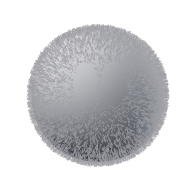
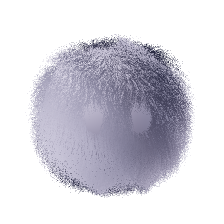
Add shaggy fur, shuffle shortcut, and Play default in v0.1.1

diff --git a/frontend/src/App.jsx b/frontend/src/App.jsx
@@ -28,7 +28,7 @@ function ValueSlider({id,label,value,min=0,max=.999,step=.001,onChange,pinned,on
 function useMobile(){const [mobile,setMobile]=useState(()=>matchMedia('(max-width: 900px)').matches);useEffect(()=>{const media=matchMedia('(max-width: 900px)'),change=()=>setMobile(media.matches);media.addEventListener('change',change);return()=>media.removeEventListener('change',change)},[]);return mobile}
 
 export default function App(){
- const [saved]=useState(loadSession),[config,setConfig]=useState(()=>saved?.config??makeDefault()),[locks,setLocks]=useState(()=>({...EMPTY_LOCKS,...saved?.locks})),[pool,setPool]=useState(()=>saved?.shapePool===true||Array.isArray(saved?.config?.options?.traits?.shape)),[theme,setTheme]=useState(()=>localStorage.getItem('squish-theme')??'dark'),[motion,setMotion]=useState(()=>saved?.motion??'hover'),[gaze,setGaze]=useState(()=>saved?.gaze??true),[mode,setMode]=useState(()=>saved?.interactionMode??'rotate'),[tab,setTab]=useState(()=>(['material','shape','expression','color'].includes(saved?.mobileTab)?saved.mobileTab:'material')),[expanded,setExpanded]=useState({}),[catalog,setCatalog]=useState(null),[status,setStatus]=useState(''),[isError,setIsError]=useState(false),[rendering,setRendering]=useState(false),[format,setFormat]=useState('png'),[result,setResult]=useState(null),[burst,setBurst]=useState(null),[previewError,setPreviewError]=useState(null),[logoReady,setLogoReady]=useState(false);
+ const [saved]=useState(loadSession),[config,setConfig]=useState(()=>saved?.config??makeDefault()),[locks,setLocks]=useState(()=>({...EMPTY_LOCKS,...saved?.locks})),[pool,setPool]=useState(()=>saved?.shapePool===true||Array.isArray(saved?.config?.options?.traits?.shape)),[theme,setTheme]=useState(()=>localStorage.getItem('squish-theme')??'dark'),[motion,setMotion]=useState(()=>saved?.motion??'hover'),[gaze,setGaze]=useState(()=>saved?.gaze??true),[mode,setMode]=useState(()=>saved?.interactionMode??'play'),[tab,setTab]=useState(()=>(['material','shape','expression','color'].includes(saved?.mobileTab)?saved.mobileTab:'material')),[expanded,setExpanded]=useState({}),[catalog,setCatalog]=useState(null),[status,setStatus]=useState(''),[isError,setIsError]=useState(false),[rendering,setRendering]=useState(false),[format,setFormat]=useState('png'),[result,setResult]=useState(null),[burst,setBurst]=useState(null),[previewError,setPreviewError]=useState(null),[logoReady,setLogoReady]=useState(false);
  const viewport=useRef(null),logoContainer=useRef(null),controller=usePreview(viewport,setPreviewError),logoController=usePreview(logoContainer),[logoScene,retryLogo]=useLogo(),mobile=useMobile(),{resolved,traitValues,error}=useResolved(config),images=useThumbnails(resolved,catalog),configRef=useRef(config),sceneRef=useRef(resolved),reaction=useRef({id:0,timer:null}),initialValidation=useRef({pending:!!saved,config});configRef.current=config;sceneRef.current=resolved;
  const defaults=catalog?.materialDefaults??MATERIAL_DEFAULTS;
  const update=useCallback(mutator=>setConfig(previous=>{const next=clone(previous);mutator(next);return next}),[]);
@@ -48,6 +48,9 @@ export default function App(){
  function setTrait(key,value){update(c=>{c.options.traits??={};if(value===undefined)delete c.options.traits[key];else c.options.traits[key]=value;if(key==='hue')delete c.options.hue;if(key==='tone')delete c.options.tone})}
  function selectShape(value){if(value===undefined)return setTrait('shape',undefined);if(!pool)return setTrait('shape',value);const old=config.options.traits?.shape,chosen=old===undefined?[]:Array.isArray(old)?old:[old],next=catalog.shapes.map(s=>s.at).filter(v=>v===value?!chosen.includes(v):chosen.includes(v));setTrait('shape',next.length===0?undefined:next.length===1?next[0]:next)}
  function lock(key,value){setLocks(old=>({...old,[key]:value}))}
+ function shuffleAll(){if(catalog)setConfig(shuffleAvatar(config,locks,catalog.expressions,defaults))}
+ const shuffleRef=useRef(shuffleAll);shuffleRef.current=shuffleAll;
+ useEffect(()=>{const onKey=e=>{if(e.key.toLowerCase()!=='r'||e.repeat||e.ctrlKey||e.metaKey||e.altKey||e.shiftKey||e.isComposing)return;const target=e.target;if(target instanceof Element&&target.closest('input,textarea,select,[contenteditable]:not([contenteditable="false"]),[role="slider"],[role="combobox"]'))return;if(document.querySelector('[role="dialog"],[role="listbox"],[role="menu"]'))return;e.preventDefault();shuffleRef.current()};window.addEventListener('keydown',onKey);return()=>window.removeEventListener('keydown',onKey)},[]);
  function resetAll(){setConfig(makeDefault());setLocks({...EMPTY_LOCKS});setPool(false);setResult(null);message('')}
  function editLogo(){if(!logoScene)return;setConfig({...clone(logoScene.config),render:clone(config.render)});setLocks({...EMPTY_LOCKS});setPool(Array.isArray(logoScene.config.options.traits?.shape));message('Editing the header SquishBot.')}
  async function react(){if(!controller||!catalog)return;clearTimeout(reaction.current.timer);const id=++reaction.current.id,current=burst??configRef.current.options.expression??'idle',choices=catalog.expressions.filter(e=>e!=='idle'&&e!==current),expression=choices[crypto.getRandomValues(new Uint32Array(1))[0]%choices.length];try{const snapshot=clone(configRef.current);snapshot.options.expression=expression;const response=await api('/api/resolve',snapshot);if(id!==reaction.current.id)return;controller.update(response.resolved??response);setBurst(expression);reaction.current.timer=setTimeout(()=>{if(id!==reaction.current.id)return;setBurst(null);if(sceneRef.current)controller.update(sceneRef.current)},1500)}catch(e){message(e.message,true)}}
@@ -66,7 +69,7 @@ export default function App(){
  return <div className="studio-shell bg-background text-foreground">
   <header className="studio-header flex min-w-0 items-center justify-between border-b px-5"><button type="button" onClick={editLogo} title="Edit this SquishBot" aria-label="Edit this SquishBot" className="flex min-w-0 items-center gap-1.5 rounded-md outline-none focus-visible:ring-2 focus-visible:ring-ring"><span className="relative block size-11 shrink-0">{!logoReady&&<AvatarFallback/>}<span ref={logoContainer} className="absolute inset-0 block size-11"/></span><span className="text-lg font-semibold tracking-tight">SquishBots</span></button><div className="header-actions"><a href="https://github.com/getkishore92/SquishBots" target="_blank" rel="noreferrer" aria-label="Star SquishBots on GitHub" className="github-star"><GithubLogoIcon size={18} weight="fill"/><span>Star</span><StarIcon size={15}/></a><IconButton label={`Switch to ${theme==='dark'?'light':'dark'} mode`} onClick={()=>setTheme(theme==='dark'?'light':'dark')}>{theme==='dark'?<SunIcon size={19}/>:<MoonIcon size={19}/>}</IconButton></div></header>
   <main className="studio-stage min-h-0 min-w-0 overflow-hidden">
-   <div className="studio-toolbar"><div className="name-controls flex min-w-0 flex-1 items-center gap-1 rounded-lg border bg-card p-1"><Input aria-label="Avatar name" value={config.seed} onChange={e=>{const value=e.target.value;update(c=>{c.seed=value})}} className="h-8 min-w-0 flex-1 border-0 bg-transparent px-2 text-sm shadow-none focus-visible:ring-0"/><Button variant="ghost" size="sm" title="Shuffle all unlocked settings" disabled={!catalog} onClick={()=>setConfig(shuffleAvatar(config,locks,catalog.expressions,defaults))} className="h-8 shrink-0 gap-1.5 px-2 text-xs"><ShuffleIcon size={16}/>Shuffle all</Button></div><div className="interaction-controls"><Tabs value={mode} onValueChange={setMode} className="mode-tabs shrink-0 gap-0"><TabsList aria-label="Drag mode" className="grid h-9 grid-cols-2"><TabsTrigger value="rotate" className="px-2 text-xs">Rotate</TabsTrigger><TabsTrigger value="play" className="px-2 text-xs">Play</TabsTrigger></TabsList><TabsContent value="rotate" className="sr-only">Drag the avatar to rotate it.</TabsContent><TabsContent value="play" className="sr-only">Drag the avatar to move and bounce.</TabsContent></Tabs><IconButton label="Reset view" onClick={()=>controller?.resetView?.()}><ArrowCounterClockwiseIcon size={17}/></IconButton><label className="follow-control flex cursor-pointer items-center gap-1.5 whitespace-nowrap text-xs"><Switch checked={gaze} onCheckedChange={setGaze} aria-label="Follow pointer"/>Follow pointer</label><Choice label="Motion" value={motion} options={[{value:'none',label:'Motion off'},{value:'hover',label:'On hover'},{value:'always',label:'Always'}]} onChange={setMotion} className="motion-select"/></div></div>
+   <div className="studio-toolbar"><div className="name-controls flex min-w-0 flex-1 items-center gap-1 rounded-lg border bg-card p-1"><Input aria-label="Avatar name" value={config.seed} onChange={e=>{const value=e.target.value;update(c=>{c.seed=value})}} className="h-8 min-w-0 flex-1 border-0 bg-transparent px-2 text-sm shadow-none focus-visible:ring-0"/><Button variant="default" size="sm" title="Shuffle all unlocked settings (R)" aria-keyshortcuts="R" disabled={!catalog} onClick={shuffleAll} className="h-8 shrink-0 gap-1.5 px-2 text-xs"><ShuffleIcon size={16}/>Shuffle all</Button></div><div className="interaction-controls"><Tabs value={mode} onValueChange={setMode} className="mode-tabs shrink-0 gap-0"><TabsList aria-label="Drag mode" className="grid h-9 grid-cols-2"><TabsTrigger value="rotate" className="px-2 text-xs">Rotate</TabsTrigger><TabsTrigger value="play" className="px-2 text-xs">Play</TabsTrigger></TabsList><TabsContent value="rotate" className="sr-only">Drag the avatar to rotate it.</TabsContent><TabsContent value="play" className="sr-only">Drag the avatar to move and bounce.</TabsContent></Tabs><IconButton label="Reset view" onClick={()=>controller?.resetView?.()}><ArrowCounterClockwiseIcon size={17}/></IconButton><label className="follow-control flex cursor-pointer items-center gap-1.5 whitespace-nowrap text-xs"><Switch checked={gaze} onCheckedChange={setGaze} aria-label="Follow pointer"/>Follow pointer</label><Choice label="Motion" value={motion} options={[{value:'none',label:'Motion off'},{value:'hover',label:'On hover'},{value:'always',label:'Always'}]} onChange={setMotion} className="motion-select"/></div></div>
    <div className="stage-visual relative min-h-0 min-w-0 flex-1"><div ref={viewport} role="button" tabIndex={0} aria-label={`${resolved?.shape??'3D'} avatar. Click to react.`} onClick={e=>{if(!e.defaultPrevented)react()}} onKeyDown={e=>{if(e.key==='Enter'||e.key===' '){e.preventDefault();react()}}} className={`absolute inset-0 cursor-grab rounded-xl outline-none active:cursor-grabbing focus-visible:ring-2 focus-visible:ring-ring ${sceneError?'opacity-20':''}`}/>{loading&&!sceneError&&<div className="pointer-events-none absolute inset-0 flex items-center justify-center gap-2 text-sm text-muted-foreground"><SpinnerGapIcon size={17} className="animate-spin"/>Preparing your avatar…</div>}{sceneError&&<div className="absolute inset-0 flex items-center justify-center p-6"><p role="alert" className="max-w-sm rounded-lg border bg-card p-4 text-center text-sm">Preview unavailable: {sceneError}</p></div>}</div>
    <div className="stage-bottom shrink-0"><div className="preview-swatches flex justify-center gap-2 pb-2" aria-label="Avatar colors">{COLORS.map(([hex,name])=><button key={hex} type="button" title={name} aria-label={`${name} avatar color`} aria-pressed={config.options.palette?.head===hex} className={`size-5 shrink-0 cursor-pointer rounded-full border border-black/15 ring-offset-background focus-visible:ring-2 focus-visible:ring-ring ${config.options.palette?.head===hex?'ring-2 ring-primary ring-offset-2':''}`} style={{backgroundColor:hex,'--swatch':hex}} onClick={()=>update(c=>{c.options.palette??={};c.options.palette.head=hex})}/>)}</div><div className="preview-caption"><p className="interaction-hint text-center text-xs text-muted-foreground">{mode==='rotate'?'Drag to rotate. Switch to Play to move and bounce.':'Move your pointer. Click to react. Drag to play.'}</p><p className="preview-label text-center text-[11px] text-muted-foreground">{burst?`Reaction · ${burst}`:`Live preview${resolved?` · ${resolved.shape} · ${config.material.preset}`:''}`}</p></div>{mobile?<Dialog.Root><Dialog.Trigger asChild><Button className="mobile-export" variant="secondary"><DownloadSimpleIcon size={18}/>Export</Button></Dialog.Trigger><Dialog.Portal><Dialog.Overlay className="export-overlay"/><Dialog.Content className="export-sheet"><div className="sheet-handle"/><div className="sheet-heading"><Dialog.Title className="text-lg font-semibold">Export avatar</Dialog.Title><Dialog.Close asChild><Button variant="ghost" aria-label="Close export">Close</Button></Dialog.Close></div><Dialog.Description className="mb-5 text-sm text-muted-foreground">Choose a format and save your SquishBot.</Dialog.Description>{exportPanel}</Dialog.Content></Dialog.Portal></Dialog.Root>:exportPanel}</div>
   </main>

diff --git a/web/preview.js b/web/preview.js
@@ -16,9 +16,22 @@ function bodyMaterial(resolved){const m=resolved.material??{},preset=m.preset??'
 function sphere(color,loc,r,options={}){const group=new THREE.Group(),obj=new THREE.Mesh(new THREE.SphereGeometry(r,40,24),bodyMaterial({marks:[{fill:color}],material:options}));group.add(obj);group.position.set(...loc);if(options.preset==='fur'){const random=seededRandom(),vertices=[],length=Math.min((options.furLength??.075)*.24,.022);for(let i=0;i<1000;i++){const y=random()*2-1,a=random()*Math.PI*2,q=Math.sqrt(1-y*y),dir=new THREE.Vector3(q*Math.cos(a),y,q*Math.sin(a));vertices.push(...dir.clone().multiplyScalar(r),...dir.clone().multiplyScalar(r+length*(.65+random()*.5)))}const geo=new THREE.BufferGeometry();geo.setAttribute('position',new THREE.Float32BufferAttribute(vertices,3));group.add(new THREE.LineSegments(geo,new THREE.LineBasicMaterial({color,transparent:true,opacity:.65})))}return group}
 
 function makeFur(geo,g,eyes,m,color){const random=seededRandom(),p=geo.attributes.position,n=geo.attributes.normal,indices=geo.index.array,triangles=[],cumulative=[];let total=0;const a=new THREE.Vector3(),b=new THREE.Vector3(),c=new THREE.Vector3();for(let i=0;i<indices.length;i+=3){a.fromBufferAttribute(p,indices[i]);b.fromBufferAttribute(p,indices[i+1]);c.fromBufferAttribute(p,indices[i+2]);const area=new THREE.Vector3().subVectors(b,a).cross(new THREE.Vector3().subVectors(c,a)).length()/2;total+=area;triangles.push([indices[i],indices[i+1],indices[i+2]]);cumulative.push(total)}
- const boxes=eyes.map(e=>{const q=pathPoints(e.d),xs=q.map(v=>(v[0]-g.cx)/32),ys=q.map(v=>(g.cy-v[1])/32);return[Math.min(...xs)-.035,Math.max(...xs)+.035,Math.min(...ys)-.035,Math.max(...ys)+.035]}),verts=[],roots=[],length=m.furLength??.075,count=Math.min(m.furDensity??12000,18000);
- for(let i=0;i<count;i++){const seek=random()*total;let lo=0,hi=cumulative.length-1;while(lo<hi){const mid=(lo+hi)>>1;if(cumulative[mid]<seek)lo=mid+1;else hi=mid}const tri=triangles[lo],u=Math.sqrt(random()),v=random(),weights=[1-u,u*(1-v),u*v],pos=new THREE.Vector3(),normal=new THREE.Vector3();for(let j=0;j<3;j++){pos.addScaledVector(new THREE.Vector3().fromBufferAttribute(p,tri[j]),weights[j]);normal.addScaledVector(new THREE.Vector3().fromBufferAttribute(n,tri[j]),weights[j])}normal.normalize();const h=length*(.65+random()*.55),tangent=new THREE.Vector3().crossVectors(normal,new THREE.Vector3(random(),random(),random())).normalize(),bend=(random()-.5)*.8*h,mid=pos.clone().addScaledVector(normal,h*.5).addScaledVector(tangent,bend*.25),end=pos.clone().addScaledVector(normal,h).addScaledVector(tangent,bend);verts.push(...pos,...mid,...mid,...end);roots.push(...pos,...pos,...pos,...pos)}
- const f=new THREE.BufferGeometry();f.setAttribute('position',new THREE.Float32BufferAttribute(verts,3));f.setAttribute('strandRoot',new THREE.Float32BufferAttribute(roots,3));const masks={eye0:{value:new THREE.Vector4(0,0,.1,.2)},eye1:{value:new THREE.Vector4(0,0,.1,.2)}},mat=new THREE.LineBasicMaterial({color,transparent:true,opacity:.7});mat.onBeforeCompile=shader=>{shader.uniforms.eye0=masks.eye0;shader.uniforms.eye1=masks.eye1;shader.vertexShader='attribute vec3 strandRoot; varying vec3 vStrandRoot;\n'+shader.vertexShader;shader.vertexShader=shader.vertexShader.replace('#include <begin_vertex>','#include <begin_vertex>\nvStrandRoot = strandRoot;');shader.fragmentShader='varying vec3 vStrandRoot; uniform vec4 eye0; uniform vec4 eye1;\n'+shader.fragmentShader;shader.fragmentShader=shader.fragmentShader.replace('#include <clipping_planes_fragment>','#include <clipping_planes_fragment>\nvec2 mask0=(vStrandRoot.xy-eye0.xy)/eye0.zw; vec2 mask1=(vStrandRoot.xy-eye1.xy)/eye1.zw; if(vStrandRoot.z > 0.0 && (dot(mask0,mask0)<1.0 || dot(mask1,mask1)<1.0)) discard;')};const fur=new THREE.LineSegments(f,mat);fur.userData.eyeMasks=masks;fur.userData.maskPad=.035+length*.65;return fur;
+ const verts=[],roots=[],colors=[],normals=[],faces=[],length=m.furLength??.22,count=Math.min(m.furDensity??28000,40000);
+ for(let i=0;i<count;i++){
+  const seek=random()*total;let lo=0,hi=cumulative.length-1;while(lo<hi){const mid=(lo+hi)>>1;if(cumulative[mid]<seek)lo=mid+1;else hi=mid}
+  const tri=triangles[lo],u=Math.sqrt(random()),v=random(),weights=[1-u,u*(1-v),u*v],pos=new THREE.Vector3(),normal=new THREE.Vector3();
+  for(let j=0;j<3;j++){pos.addScaledVector(new THREE.Vector3().fromBufferAttribute(p,tri[j]),weights[j]);normal.addScaledVector(new THREE.Vector3().fromBufferAttribute(n,tri[j]),weights[j])}normal.normalize();
+  // Nearby roots share a comb direction, with a little individual flyaway variation.
+  const flow=new THREE.Vector3(.35*Math.sin(pos.y*9+pos.x*7),-1,.15*Math.sin(pos.x*8));flow.addScaledVector(normal,-flow.dot(normal)).normalize();
+  const side=new THREE.Vector3().crossVectors(normal,flow).normalize(),h=length*(.75+random()*.75),curl=(random()-.5)*.3,shade=.82+random()*.18,width=.0035+random()*.002,offset=verts.length/3;
+  for(let j=0;j<=6;j++){
+   const t=j/6,tip=pos.clone().addScaledVector(normal,h*(t-.35*t*t)).addScaledVector(flow,h*1.15*t*t).addScaledVector(side,h*curl*Math.sin(t*Math.PI));
+   const radius=width*Math.pow(1-t,.8)+.00004;
+   for(const sign of [-1,1]){verts.push(...tip.clone().addScaledVector(side,radius*sign));roots.push(...pos);normals.push(...normal);const light=shade*(.65+.35*Math.sqrt(t));colors.push(light,light,light)}
+   if(j<6){const k=offset+j*2;faces.push(k,k+1,k+2,k+1,k+3,k+2)}
+  }
+ }
+ const f=new THREE.BufferGeometry();f.setAttribute('position',new THREE.Float32BufferAttribute(verts,3));f.setAttribute('strandRoot',new THREE.Float32BufferAttribute(roots,3));f.setAttribute('color',new THREE.Float32BufferAttribute(colors,3));f.setAttribute('normal',new THREE.Float32BufferAttribute(normals,3));f.setIndex(faces);const masks={eye0:{value:new THREE.Vector4(0,0,.1,.2)},eye1:{value:new THREE.Vector4(0,0,.1,.2)}},mat=new THREE.MeshStandardMaterial({color,vertexColors:true,roughness:.85,metalness:0,side:THREE.DoubleSide,envMapIntensity:.65});mat.onBeforeCompile=shader=>{shader.uniforms.eye0=masks.eye0;shader.uniforms.eye1=masks.eye1;shader.vertexShader='attribute vec3 strandRoot; varying vec3 vStrandRoot;\n'+shader.vertexShader;shader.vertexShader=shader.vertexShader.replace('#include <begin_vertex>','#include <begin_vertex>\nvStrandRoot = strandRoot;');shader.fragmentShader='varying vec3 vStrandRoot; uniform vec4 eye0; uniform vec4 eye1;\n'+shader.fragmentShader;shader.fragmentShader=shader.fragmentShader.replace('#include <clipping_planes_fragment>','#include <clipping_planes_fragment>\nvec2 mask0=(vStrandRoot.xy-eye0.xy)/eye0.zw; vec2 mask1=(vStrandRoot.xy-eye1.xy)/eye1.zw; if(vStrandRoot.z > 0.0 && (dot(mask0,mask0)<1.0 || dot(mask1,mask1)<1.0)) discard;')};const fur=new THREE.Mesh(f,mat);fur.userData.eyeMasks=masks;fur.userData.maskPad=.025+length*.18;return fur;
 }
 function badgeMesh(count,options={}){const group=new THREE.Group(),badge=sphere('#ffffff',[.8,-.67,.88],.31,options);badge.scale.z=.27;group.add(badge);const label=count>99?'99+':String(count),textGeometry=new TextGeometry(label,{font:badgeFont,size:.26,depth:.018,curveSegments:6,bevelEnabled:true,bevelThickness:.0015,bevelSize:.001,bevelSegments:2});textGeometry.computeBoundingBox();let box=textGeometry.boundingBox;const scale=Math.min(1,.43/(box.max.x-box.min.x),.26/(box.max.y-box.min.y));textGeometry.scale(scale,scale,1);textGeometry.computeBoundingBox();box=textGeometry.boundingBox;textGeometry.translate(-(box.min.x+box.max.x)/2,-(box.min.y+box.max.y)/2,0);const lettering=new THREE.Mesh(textGeometry,bodyMaterial({marks:[{fill:'#111318'}],material:{...options,preset:options.preset==='fur'?'clay':options.preset,textureStrength:0}}));lettering.material.transmission=0;lettering.material.color.set('#111318');lettering.position.set(.8,-.67,.982);lettering.name='Extruded unread count '+label;group.add(lettering);return group}
 

diff --git a/frontend/src/studio.js b/frontend/src/studio.js
@@ -1,13 +1,13 @@
 export const MATERIAL_LABELS={resin:'Resin',clay:'Clay',fur:'Fur',glass:'Glass'};
-export const MATERIAL_DEFAULTS={resin:{roughness:.22,textureScale:24,textureStrength:0},clay:{roughness:.78,textureScale:35,textureStrength:.045},fur:{roughness:.75,textureScale:30,textureStrength:.1,furLength:.075,furDensity:12000},glass:{roughness:.06,textureScale:24,textureStrength:0}};
+export const MATERIAL_DEFAULTS={resin:{roughness:.22,textureScale:24,textureStrength:0},clay:{roughness:.78,textureScale:35,textureStrength:.045},fur:{roughness:.75,textureScale:30,textureStrength:.1,furLength:.22,furDensity:28000},glass:{roughness:.06,textureScale:24,textureStrength:0}};
 export const COLORS=[['#15171A','Ink'],['#8F6146','Brown'],['#EF4444','Red'],['#F58D27','Orange'],['#EDBA30','Yellow'],['#3BCC94','Mint'],['#2CB9A6','Teal'],['#3693ED','Blue'],['#8955EF','Violet'],['#D753B1','Pink'],['#A6A7AE','Gray'],['#F1EEE9','Cream']];
 export const EMPTY_LOCKS={material:false,color:false,expression:false,presence:false};
 export const clone=value=>structuredClone(value);
 export const round=value=>Math.round(value*1000)/1000;
 export function randomName(previous=''){const first=['Milo','Luna','Oliver','Sage','Noah','Zoe','Finn','Ada','Theo','Iris','Arlo','Nora','Leo','Ruby','Remy','Maya','Jude','Cleo','Eli','Nova','Luca','Esme','Owen','Alma','Felix','Wren','Ezra','Pearl','Oscar','June','Rory','Isla','Hugo','Olive','Beau','Cora','Ari','Vera','Nico','Flora','Otis','Lyra','Kit','Maeve','Levi','Nell','Rio','Faye','Asa','Mabel','Enzo','Mira','Ivo','Daisy','Micah','Tess','Jasper','Lila','Basil','Thea','Rowan','Elio','Anya','Soren'],last=['Clover','Birch','Pebble','Maple','Meadow','River','Willow','Cloud','Moss','Fern','Brook','Reed','Hazel','Pine','Woods','Lake','Grove','Vale','Bloom','Sprout','Dawn','Stone','Briar','Skye','Cedar','Aster','Sparrow','Finch','Wilder','Rain','Cove','Marsh','Indigo','Sunny','Oak','Ember','Haven','Linden','Frost','Summer','Winter','Cricket','Laurel','Thistle','Bluebell','Saffron','Moon','Plum'];let name;do{const v=crypto.getRandomValues(new Uint32Array(2));name=`${first[v[0]%first.length]} ${last[v[1]%last.length]}`}while(name===previous);return name}
 export function makeDefault(){return {seed:randomName(),options:{traits:{},background:false},material:{preset:'resin'},status:'none',badge:0,render:{transparent:true,resolution:768,samples:64}}}
-export function loadSession(){try{const saved=JSON.parse(sessionStorage.getItem('blobatar-session')||'null');if(!saved?.config)return null;const c=saved.config;c.options??={};c.options.background=false;c.options.traits??={};c.render={transparent:true,resolution:768,samples:64,...c.render};c.material??={preset:'resin'};if(c.material.preset==='ceramic')c.material={...c.material,preset:'clay'};if(!MATERIAL_LABELS[c.material.preset])c.material={...c.material,preset:'resin'};if(c.seed==='alain00'&&!Object.keys(c.options.traits).length&&!Object.keys(c.options.palette??{}).length&&!c.options.hue&&!c.options.tone&&(!c.options.expression||c.options.expression==='idle')&&c.material.preset==='resin'&&(!c.status||c.status==='none')&&!c.badge)c.seed=randomName();return saved}catch{return null}}
+export function loadSession(){try{const saved=JSON.parse(sessionStorage.getItem('blobatar-session')||'null');if(!saved?.config)return null;const c=saved.config;c.options??={};c.options.background=false;c.options.traits??={};c.render={transparent:true,resolution:768,samples:64,...c.render};c.material??={preset:'resin'};if(c.material.preset==='fur'&&c.material.furLength===.075&&c.material.furDensity===12000){c.material.furLength=.22;c.material.furDensity=28000}if(c.material.preset==='ceramic')c.material={...c.material,preset:'clay'};if(!MATERIAL_LABELS[c.material.preset])c.material={...c.material,preset:'resin'};if(c.seed==='alain00'&&!Object.keys(c.options.traits).length&&!Object.keys(c.options.palette??{}).length&&!c.options.hue&&!c.options.tone&&(!c.options.expression||c.options.expression==='idle')&&c.material.preset==='resin'&&(!c.status||c.status==='none')&&!c.badge)c.seed=randomName();return saved}catch{return null}}
 export async function api(url,body,signal){const response=await fetch(url,{method:body===undefined?'GET':'POST',headers:{'Content-Type':'application/json'},body:body===undefined?undefined:JSON.stringify(body),signal});const text=await response.text();let result;try{result=JSON.parse(text)}catch{throw new Error(`Server request failed (${response.status}). Please try again shortly.`)}if(!response.ok)throw new Error(result.error||result.message||'Request failed');return result}
 export function seededRandom(seed){let h=2166136261;for(const c of seed){h^=c.codePointAt(0);h=Math.imul(h,16777619)}return()=>{h+=0x6d2b79f5;let t=h;t=Math.imul(t^(t>>>15),t|1);t^=t+Math.imul(t^(t>>>7),t|61);return((t^(t>>>14))>>>0)/4294967296}}
-export function shuffleAvatar(config,locks,expressions,defaults){const next=clone(config),seed=randomName(config.seed),random=seededRandom(seed),pick=(list,old)=>{const choices=list.filter(v=>v!==old);return choices[Math.floor(random()*choices.length)]};next.seed=seed;if(!locks.material){const preset=pick(Object.keys(MATERIAL_LABELS),next.material.preset),d=defaults[preset];next.material={preset,roughness:round(Math.max(0,Math.min(1,d.roughness+(random()-.5)*.08))),textureScale:round(d.textureScale*(.8+random()*.4)),textureStrength:round(Math.min(1,d.textureStrength*(.8+random()*.4)))};if(preset==='fur'){next.material.furLength=round(.05+random()*.05);next.material.furDensity=8000+Math.floor(random()*100)*100}}if(!locks.color){const eye=next.options.palette?.eye,pinned=next.options.traits?.hue!==undefined||next.options.traits?.tone!==undefined||next.options.hue!==undefined||next.options.tone!==undefined;const head=pinned?undefined:pick(COLORS.map(([hex])=>hex),next.options.palette?.head);next.options.palette={...(head?{head}:{}),...(eye?{eye}:{})};if(!Object.keys(next.options.palette).length)delete next.options.palette}if(!locks.expression)next.options.expression=pick(expressions,next.options.expression??'idle');if(!locks.presence){next.status=pick(['none','online','away','offline','thinking'],next.status);next.badge=random()<.7?0:1+Math.floor(random()*128)}return next}
+export function shuffleAvatar(config,locks,expressions,defaults){const next=clone(config),seed=randomName(config.seed),random=seededRandom(seed),pick=(list,old)=>{const choices=list.filter(v=>v!==old);return choices[Math.floor(random()*choices.length)]};next.seed=seed;if(!locks.material){const preset=pick(Object.keys(MATERIAL_LABELS),next.material.preset),d=defaults[preset];next.material={preset,roughness:round(Math.max(0,Math.min(1,d.roughness+(random()-.5)*.08))),textureScale:round(d.textureScale*(.8+random()*.4)),textureStrength:round(Math.min(1,d.textureStrength*(.8+random()*.4)))};if(preset==='fur'){next.material.furLength=round(.18+random()*.09);next.material.furDensity=24000+Math.floor(random()*80)*100}}if(!locks.color){const eye=next.options.palette?.eye,pinned=next.options.traits?.hue!==undefined||next.options.traits?.tone!==undefined||next.options.hue!==undefined||next.options.tone!==undefined;const head=pinned?undefined:pick(COLORS.map(([hex])=>hex),next.options.palette?.head);next.options.palette={...(head?{head}:{}),...(eye?{eye}:{})};if(!Object.keys(next.options.palette).length)delete next.options.palette}if(!locks.expression)next.options.expression=pick(expressions,next.options.expression??'idle');if(!locks.presence){next.status=pick(['none','online','away','offline','thinking'],next.status);next.badge=random()<.7?0:1+Math.floor(random()*128)}return next}
 export function download(blob,name){const url=URL.createObjectURL(blob),anchor=document.createElement('a');anchor.href=url;anchor.download=name;anchor.click();setTimeout(()=>URL.revokeObjectURL(url),1000)}

diff --git a/renderer/render.py b/renderer/render.py
@@ -123,7 +123,7 @@ def eye_fur_mesh(eye,mat,opts,index):
 def fur_mesh(body,eyes,cx,cy,mat,opts):
     rng=random.Random(0);me=body.data;me.calc_loop_triangles();triangles=list(me.loop_triangles);areas=[];total=0
     for tri in triangles:total+=tri.area;areas.append(total)
-    count=int(opts.get('furDensity',12000));length=opts.get('furLength',.075)
+    count=int(opts.get('furDensity',28000));length=opts.get('furLength',.22)
     curve=bpy.data.curves.new('Deterministic fine fur','CURVE');curve.dimensions='3D';curve.resolution_u=1;curve.bevel_depth=.0022;curve.bevel_resolution=0;curve.resolution_u=1
     boxes=[]
     for eye in eyes:
@@ -132,8 +132,9 @@ def fur_mesh(body,eyes,cx,cy,mat,opts):
         tri=triangles[bisect.bisect_left(areas,rng.random()*total)];vs=[me.vertices[k] for k in tri.vertices];a=math.sqrt(rng.random());b=rng.random();weights=(1-a,a*(1-b),a*b)
         p=sum((v.co*w for v,w in zip(vs,weights)),Vector());n=sum((v.normal*w for v,w in zip(vs,weights)),Vector()).normalized()
         if p.y<0 and any(x0<p.x<x1 and z0<p.z<z1 for x0,x1,z0,z1 in boxes):continue
-        tangent=n.cross(Vector((rng.random(),rng.random(),rng.random()))).normalized();h=length*rng.uniform(.65,1.2);bend=rng.uniform(-.4,.4)*h
-        points=[p+n*h*(j/3)+tangent*bend*(j/3)**2 for j in range(4)]
+        flow=Vector((.35*math.sin(p.z*9+p.x*7),-.15*math.sin(p.x*8),-1));flow=(flow-n*flow.dot(n)).normalized()
+        side=n.cross(flow).normalized();h=length*rng.uniform(.7,1.35);curl=rng.uniform(-.11,.11)
+        points=[p+n*h*(t-.38*t*t)+flow*h*.95*t*t+side*h*curl*math.sin(t*math.pi) for t in (j/6 for j in range(7))]
         if strand_hits_eyes(points,boxes):continue
         spline=curve.splines.new('POLY');spline.points.add(len(points)-1)
         for j,q in enumerate(points):

diff --git a/docs/web-architecture.md b/docs/web-architecture.md
@@ -59,3 +59,5 @@ The server binds to 127.0.0.1 and is intended for local use. A public multi-user
 ## Checks
 
 `npm test` checks source geometry, sparse traits, narrowing, expressions, motion math, hashing, material bounds and eye contrast. `npm run typecheck` and `npm run build` check the frontend. `npm run test:api` performs API checks and a real Blender render. Browser interaction and visual review remain separate from these code checks.
+
+Fur uses dense, tapered strand ribbons in the browser, with root-to-tip shading and downward combing. Blender uses tapered curves with the same longer, curved grooming direction. New sessions start in Play mode. Press R outside text fields and popups to shuffle all unlocked settings.
